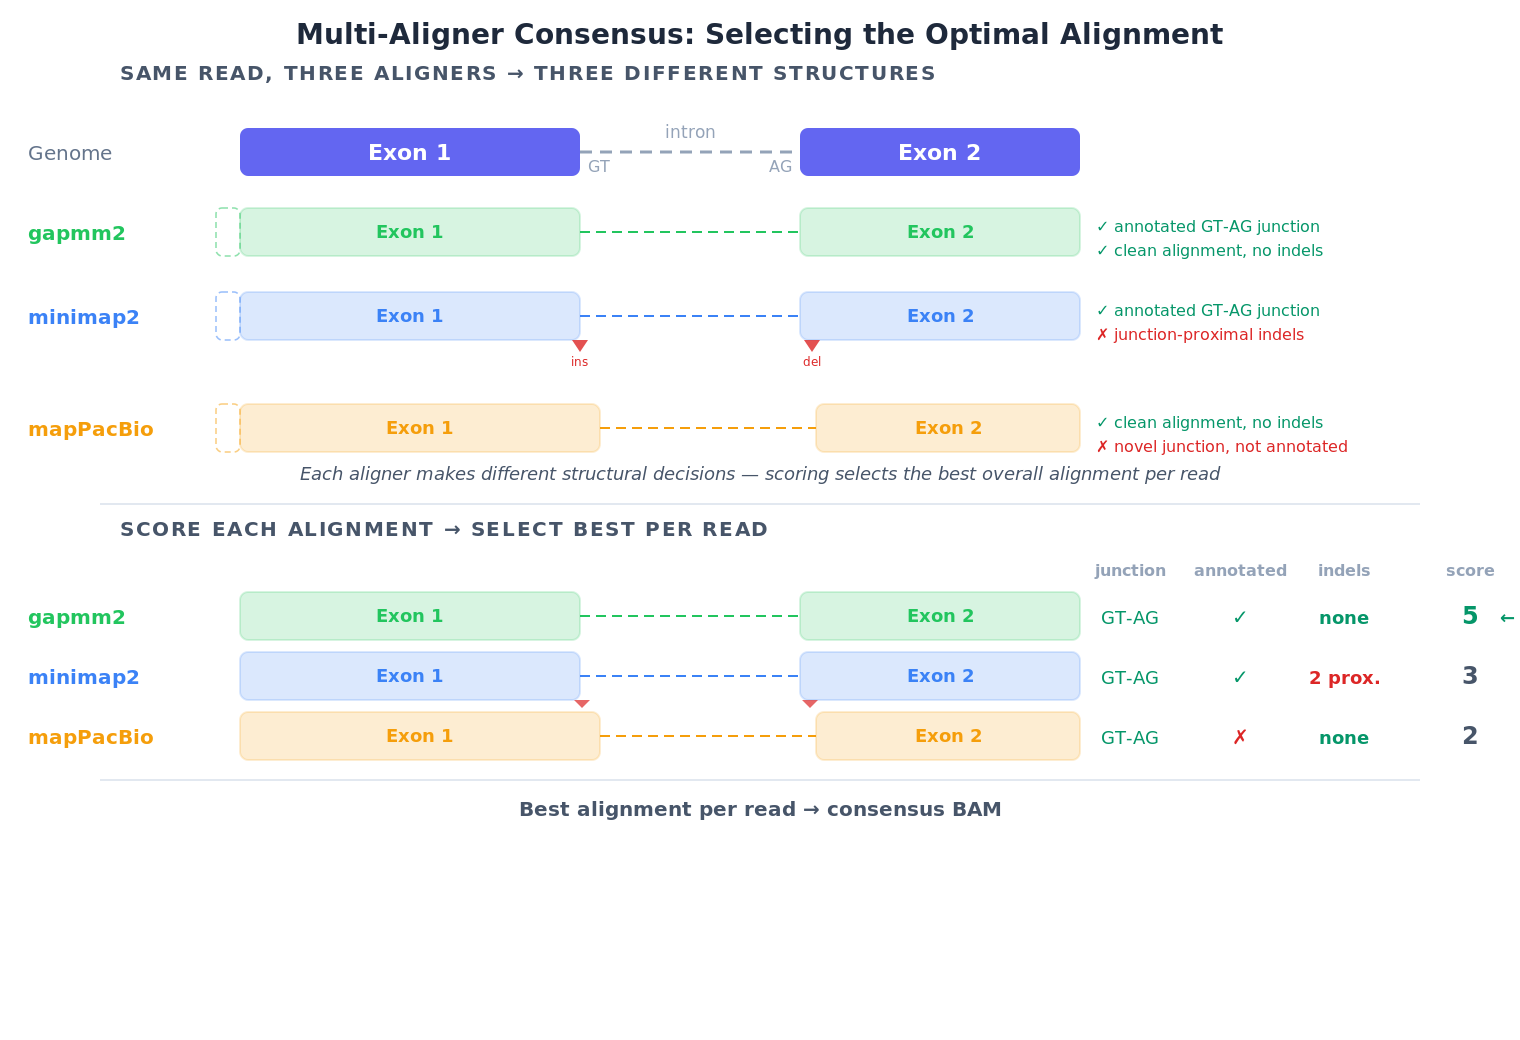
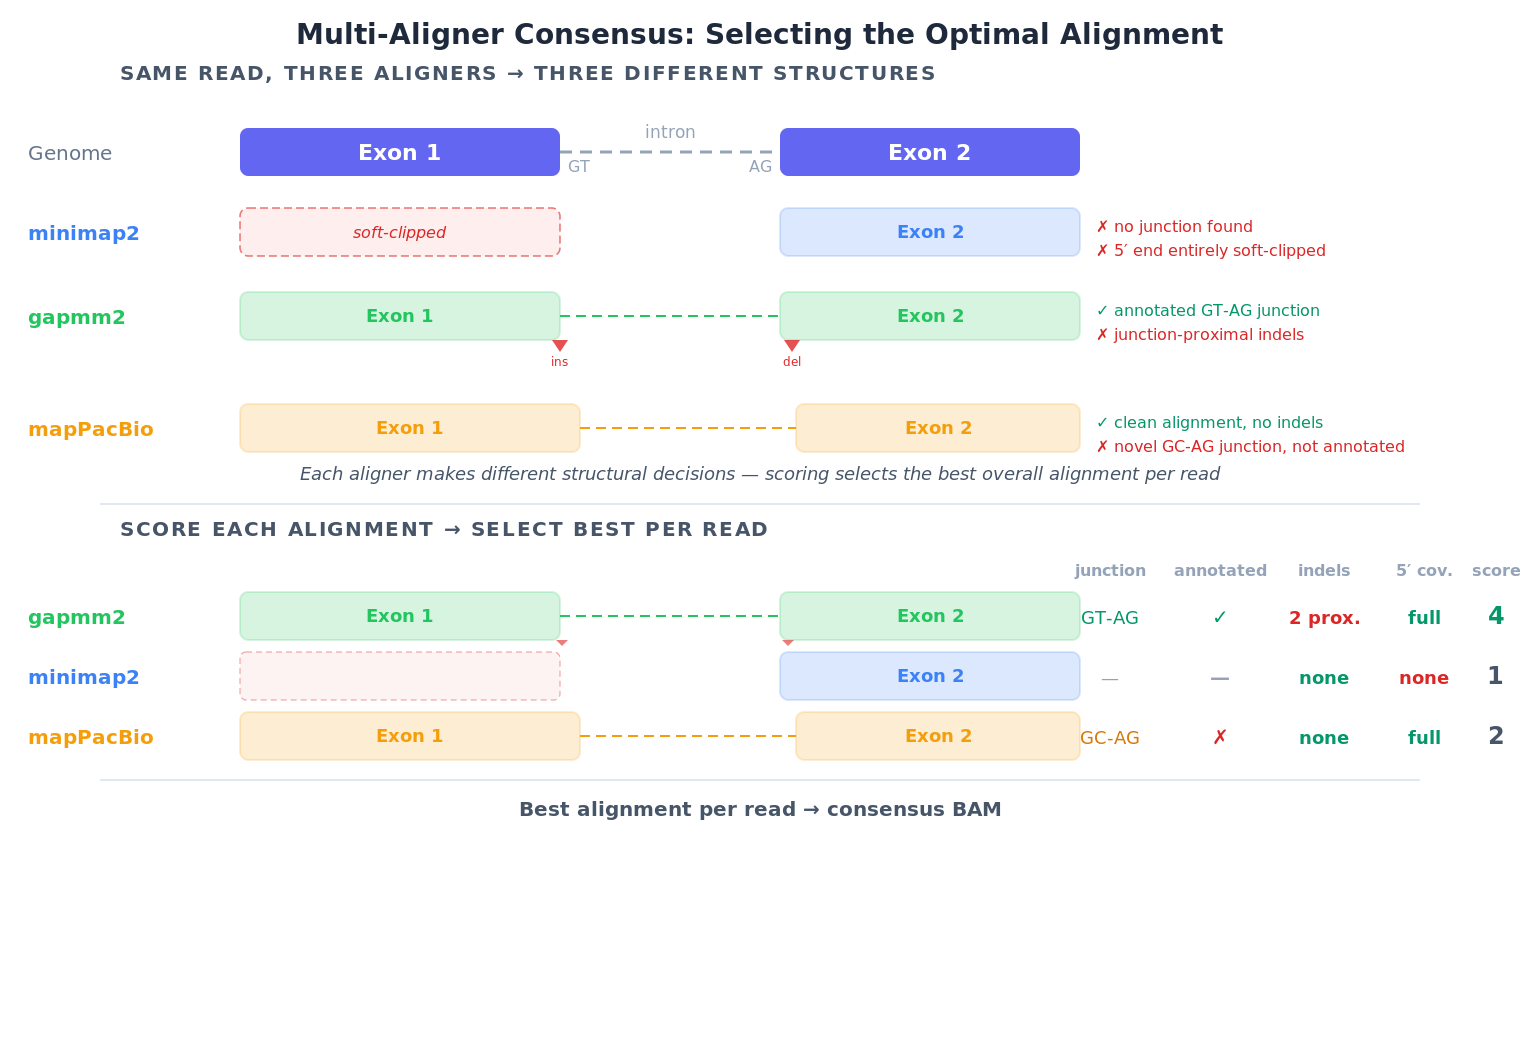
Redesign figures with unified style system; fix aligner name to mapPacBio

diff --git a/generate_figures.py b/generate_figures.py
@@ -481,12 +481,12 @@ def fig_5prime_junction():
 def fig_multi_aligner_consensus():
     """
     Same read, three aligners, three different structural decisions:
-      - gapmm2: clean alignment to annotated junction (wins)
-      - minimap2: forces annotated junction but with junction-proximal indels
+      - mapPacBio: clean alignment to annotated junction (wins)
+      - minimap2: soft-clips the entire 5' end of the read (no Exon 1)
+      - gapmm2: forces annotated junction but with junction-proximal indels
       - mapPacBio: discovers a novel alternative junction (diff 5'SS & 3'SS)
-    Small realistic 5' overhangs (soft-clips) on all reads.
     """
-    H = 520
+    H = 530
     BLK_H = 24
     ROW_SP = 38
     L = []
@@ -494,20 +494,17 @@ def fig_multi_aligner_consensus():
     L.append(fig_title("Multi-Aligner Consensus: Selecting the Optimal Alignment"))
 
     # Genome reference coordinates
-    # Exon 1: 120-290, Intron: 290-400, Exon 2: 400-540
-    EX1_X, EX1_W = 120, 170
-    EX2_X, EX2_W = 400, 140
-    INT_X1, INT_X2 = 290, 400
-
-    # Small 5' soft-clip overhang (all reads extend slightly past annotated Exon 1 start)
-    SC5_W = 12  # small realistic overhang
+    # Exon 1: 120-280, Intron: 280-390, Exon 2: 390-540
+    EX1_X, EX1_W = 120, 160
+    EX2_X, EX2_W = 390, 150
+    INT_X1, INT_X2 = 280, 390
 
     # Aligner colors
-    AC = {"gapmm2": "#22c55e", "minimap2": "#3b82f6", "mapPacBio": "#f59e0b"}
+    AC = {"minimap2": "#3b82f6", "gapmm2": "#22c55e", "mapPacBio": "#f59e0b"}
 
-    # Junction shift for mapPacBio's novel junction (5'SS shifted right, 3'SS shifted right)
-    NOVEL_5SS = 10   # 5'SS shifted 10px into intron
-    NOVEL_3SS = 8    # 3'SS shifted 8px into Exon 2
+    # Junction shift for mapPacBio's novel junction
+    NOVEL_5SS = 10
+    NOVEL_3SS = 8
 
     # ── SAME READ, THREE DIFFERENT STRUCTURAL DECISIONS ──
     y_sec = 40
@@ -522,47 +519,44 @@ def fig_multi_aligner_consensus():
     L.append(f'<text fill="{PAL["muted"]}" font-size="8" text-anchor="end" x="{INT_X2-4}" y="{y_g + BLK_H - 2}">AG</text>')
     L.append(exon(EX2_X, y_g, EX2_W, BLK_H, "Exon 2"))
 
-    # Helper: draw a small 5' soft-clip overhang at the start of a read
-    def sc5_overhang(x_start, y_pos, color):
-        """Small dashed rect before the aligned Exon 1 start."""
-        return (f'<rect fill="none" height="{BLK_H}" rx="3" '
-                f'stroke="{color}" stroke-dasharray="3,2" stroke-width="0.8" opacity="0.5" '
-                f'width="{SC5_W}" x="{x_start - SC5_W}" y="{y_pos}"/>')
-
-    # ── gapmm2: Clean alignment to annotated junction ──
+    # ── minimap2: Soft-clips the entire 5' end of the read ──
+    # minimap2 fails to split the read across the junction for this read.
+    # It aligns Exon 2 cleanly but soft-clips everything upstream (Exon 1 bases).
+    # The soft-clip is at the 5' end of the read — a valid terminal position.
     y = y_g + 40
-    c = AC["gapmm2"]
-    L.append(f'<text fill="{c}" font-size="10" font-weight="600" x="14" y="{y + BLK_H//2 + 4}">gapmm2</text>')
-    L.append(sc5_overhang(EX1_X, y, c))
-    L.append(aligned_block(EX1_X, y, EX1_W, BLK_H, "Exon 1", c))
-    L.append(f'<line stroke="{c}" stroke-dasharray="5,3" stroke-width="1" '
-             f'x1="{INT_X1}" x2="{INT_X2}" y1="{y+BLK_H//2}" y2="{y+BLK_H//2}"/>')
-    L.append(aligned_block(EX2_X, y, EX2_W, BLK_H, "Exon 2", c))
-    L.append(f'<text fill="{PAL["green"]}" font-size="8" x="{EX2_X + EX2_W + 8}" '
-             f'y="{y + BLK_H//2 + 0}">\u2713 annotated GT-AG junction</text>')
-    L.append(f'<text fill="{PAL["green"]}" font-size="8" x="{EX2_X + EX2_W + 8}" '
-             f'y="{y + BLK_H//2 + 12}">\u2713 clean alignment, no indels</text>')
-
-    # ── minimap2: Annotated junction, but junction-proximal indels ──
-    # minimap2 forces the read onto the annotated splice site coordinates,
-    # but introduces small insertions/deletions near the junction to make it fit.
-    y += ROW_SP + 4
     c = AC["minimap2"]
     L.append(f'<text fill="{c}" font-size="10" font-weight="600" x="14" y="{y + BLK_H//2 + 4}">minimap2</text>')
-    L.append(sc5_overhang(EX1_X, y, c))
+    # Soft-clipped Exon 1 region (entire 5' end of read)
+    L.append(f'<rect fill="{PAL["red_l"]}" height="{BLK_H}" rx="4" '
+             f'stroke="{PAL["red"]}" stroke-dasharray="4,2" stroke-width="0.8" opacity="0.6" '
+             f'width="{EX1_W}" x="{EX1_X}" y="{y}"/>')
+    L.append(f'<text fill="{PAL["red"]}" font-size="8" font-style="italic" text-anchor="middle" '
+             f'x="{EX1_X + EX1_W//2}" y="{y + BLK_H//2 + 3}">soft-clipped</text>')
+    # No junction — minimap2 didn't find the splice
+    # Exon 2 aligned directly
+    L.append(aligned_block(EX2_X, y, EX2_W, BLK_H, "Exon 2", c))
+    L.append(f'<text fill="{PAL["red"]}" font-size="8" x="{EX2_X + EX2_W + 8}" '
+             f'y="{y + BLK_H//2 + 0}">\u2717 no junction found</text>')
+    L.append(f'<text fill="{PAL["red"]}" font-size="8" x="{EX2_X + EX2_W + 8}" '
+             f'y="{y + BLK_H//2 + 12}">\u2717 5\u2032 end entirely soft-clipped</text>')
+
+    # ── gapmm2: Annotated junction, but junction-proximal indels ──
+    # gapmm2 forces the read onto the annotated splice site coordinates,
+    # but introduces small insertions/deletions near the junction to make it fit.
+    y += ROW_SP + 4
+    c = AC["gapmm2"]
+    L.append(f'<text fill="{c}" font-size="10" font-weight="600" x="14" y="{y + BLK_H//2 + 4}">gapmm2</text>')
     L.append(aligned_block(EX1_X, y, EX1_W, BLK_H, "Exon 1", c))
     L.append(f'<line stroke="{c}" stroke-dasharray="5,3" stroke-width="1" '
              f'x1="{INT_X1}" x2="{INT_X2}" y1="{y+BLK_H//2}" y2="{y+BLK_H//2}"/>')
     L.append(aligned_block(EX2_X, y, EX2_W, BLK_H, "Exon 2", c))
-    # Indel markers near the junction — small triangles at 5'SS and 3'SS boundaries
-    # Insertion triangle at end of Exon 1 (pointing down)
+    # Indel markers — small triangles below the junction boundaries
     tri_y = y + BLK_H
     ins_x = INT_X1 - 4
     L.append(f'<polygon fill="{PAL["red"]}" opacity="0.8" '
              f'points="{ins_x},{tri_y} {ins_x+4},{tri_y+6} {ins_x+8},{tri_y}"/>')
     L.append(f'<text fill="{PAL["red"]}" font-size="6" text-anchor="middle" '
              f'x="{ins_x+4}" y="{tri_y+13}">ins</text>')
-    # Deletion marker at start of Exon 2
     del_x = EX2_X + 2
     L.append(f'<polygon fill="{PAL["red"]}" opacity="0.8" '
              f'points="{del_x},{tri_y} {del_x+4},{tri_y+6} {del_x+8},{tri_y}"/>')
@@ -574,28 +568,24 @@ def fig_multi_aligner_consensus():
              f'y="{y + BLK_H//2 + 12}">\u2717 junction-proximal indels</text>')
 
     # ── mapPacBio: Novel alternative junction (different 5'SS and 3'SS) ──
-    # mapPacBio finds a nearby but different splice site — both the donor
-    # and acceptor positions differ from the annotation.
-    y += ROW_SP + 18  # extra space for minimap2's indel markers below
+    y += ROW_SP + 18  # extra space for gapmm2's indel markers
     c = AC["mapPacBio"]
     L.append(f'<text fill="{c}" font-size="10" font-weight="600" x="14" y="{y + BLK_H//2 + 4}">mapPacBio</text>')
-    L.append(sc5_overhang(EX1_X, y, c))
     # Exon 1 extends further (5'SS shifted into intron)
     mpb_ex1_w = EX1_W + NOVEL_5SS
     L.append(aligned_block(EX1_X, y, mpb_ex1_w, BLK_H, "Exon 1", c))
-    # Junction from shifted 5'SS to shifted 3'SS
+    # Junction from shifted positions
     mpb_int_x1 = INT_X1 + NOVEL_5SS
     mpb_int_x2 = INT_X2 + NOVEL_3SS
     L.append(f'<line stroke="{c}" stroke-dasharray="5,3" stroke-width="1" '
              f'x1="{mpb_int_x1}" x2="{mpb_int_x2}" y1="{y+BLK_H//2}" y2="{y+BLK_H//2}"/>')
-    # Exon 2 starts later (3'SS shifted)
     mpb_ex2_x = EX2_X + NOVEL_3SS
     mpb_ex2_w = EX2_W - NOVEL_3SS
     L.append(aligned_block(mpb_ex2_x, y, mpb_ex2_w, BLK_H, "Exon 2", c))
     L.append(f'<text fill="{PAL["green"]}" font-size="8" x="{EX2_X + EX2_W + 8}" '
              f'y="{y + BLK_H//2 + 0}">\u2713 clean alignment, no indels</text>')
     L.append(f'<text fill="{PAL["red"]}" font-size="8" x="{EX2_X + EX2_W + 8}" '
-             f'y="{y + BLK_H//2 + 12}">\u2717 novel junction, not annotated</text>')
+             f'y="{y + BLK_H//2 + 12}">\u2717 novel GC-AG junction, not annotated</text>')
 
     # ── Callout ──
     y_note = y + BLK_H + 14
@@ -614,19 +604,28 @@ def fig_multi_aligner_consensus():
 
     # Column headers
     y_hdr = y_sec2 + 20
-    score_cols = [("junction", 565), ("annotated", 620), ("indels", 672), ("score", 735)]
+    score_cols = [("junction", 555), ("annotated", 610), ("indels", 662), ("5\u2032 cov.", 712), ("score", 748)]
     for label, cx in score_cols:
         L.append(f'<text fill="{PAL["muted"]}" font-size="8" font-weight="600" '
                  f'text-anchor="middle" x="{cx}" y="{y_hdr}">{label}</text>')
 
     # Score rows
     scores = [
-        ("gapmm2",     AC["gapmm2"],     "GT-AG", "\u2713", "none",   "5", True),
-        ("minimap2",   AC["minimap2"],   "GT-AG", "\u2713", "2 prox.", "3", False),
-        ("mapPacBio",  AC["mapPacBio"],  "GT-AG", "\u2717", "none",   "2", False),
+        ("gapmm2",     AC["gapmm2"],     "GT-AG", "\u2713", "2 prox.", "full",  "4", False),
+        ("minimap2",   AC["minimap2"],   "\u2014",  "\u2014",  "none",   "none",  "1", False),
+        ("mapPacBio",  AC["mapPacBio"],  "GC-AG", "\u2717", "none",    "full",  "2", False),
     ]
+    # Determine best — gapmm2 wins with annotated junction + full coverage despite indels
+    # Actually: mapPacBio has clean alignment + full coverage but not annotated.
+    # gapmm2 has annotated + full coverage but indels.
+    # For this read, gapmm2's annotated junction outweighs the indel penalty.
+    # But wait — let's think about what RECTIFY actually values most:
+    # annotated canonical junction > novel junction > no junction
+    # So: gapmm2 (annotated, indels) > mapPacBio (novel, clean) > minimap2 (no junction)
+    # gapmm2 wins.
+    scores[0] = ("gapmm2", AC["gapmm2"], "GT-AG", "\u2713", "2 prox.", "full", "4", True)
 
-    for i, (name, color, jn, ann, indels, score, is_best) in enumerate(scores):
+    for i, (name, color, jn, ann, indels, cov, score, is_best) in enumerate(scores):
         y = y_hdr + 8 + i * 30
         L.append(f'<text fill="{color}" font-size="10" font-weight="600" x="14" '
                  f'y="{y + BLK_H//2 + 4}">{name}</text>')
@@ -634,48 +633,51 @@ def fig_multi_aligner_consensus():
         # Compact alignment bars
         bar_x = 120
         if name == "minimap2":
+            # Soft-clipped Exon 1 + Exon 2 only
+            L.append(f'<rect fill="{PAL["red_l"]}" height="{BLK_H}" rx="3" '
+                     f'stroke="{PAL["red"]}" stroke-dasharray="3,2" stroke-width="0.6" opacity="0.4" '
+                     f'width="{EX1_W}" x="{bar_x}" y="{y}"/>')
+            L.append(aligned_block(EX2_X, y, EX2_W, BLK_H, "Exon 2", color))
+        elif name == "gapmm2":
             L.append(aligned_block(bar_x, y, EX1_W, BLK_H, "Exon 1", color))
             L.append(f'<line stroke="{color}" stroke-dasharray="5,3" stroke-width="1" '
                      f'x1="{INT_X1}" x2="{INT_X2}" y1="{y+BLK_H//2}" y2="{y+BLK_H//2}"/>')
             L.append(aligned_block(EX2_X, y, EX2_W, BLK_H, "Exon 2", color))
-            # Small indel marks
-            L.append(f'<polygon fill="{PAL["red"]}" opacity="0.7" '
-                     f'points="{INT_X1-3},{y+BLK_H} {INT_X1+1},{y+BLK_H+4} {INT_X1+5},{y+BLK_H}"/>')
-            L.append(f'<polygon fill="{PAL["red"]}" opacity="0.7" '
-                     f'points="{EX2_X+1},{y+BLK_H} {EX2_X+5},{y+BLK_H+4} {EX2_X+9},{y+BLK_H}"/>')
+            # Tiny indel marks
+            L.append(f'<polygon fill="{PAL["red"]}" opacity="0.6" '
+                     f'points="{INT_X1-2},{y+BLK_H} {INT_X1+1},{y+BLK_H+3} {INT_X1+4},{y+BLK_H}"/>')
+            L.append(f'<polygon fill="{PAL["red"]}" opacity="0.6" '
+                     f'points="{EX2_X+1},{y+BLK_H} {EX2_X+4},{y+BLK_H+3} {EX2_X+7},{y+BLK_H}"/>')
         elif name == "mapPacBio":
             L.append(aligned_block(bar_x, y, EX1_W + NOVEL_5SS, BLK_H, "Exon 1", color))
             L.append(f'<line stroke="{color}" stroke-dasharray="5,3" stroke-width="1" '
                      f'x1="{INT_X1 + NOVEL_5SS}" x2="{INT_X2 + NOVEL_3SS}" '
                      f'y1="{y+BLK_H//2}" y2="{y+BLK_H//2}"/>')
             L.append(aligned_block(EX2_X + NOVEL_3SS, y, EX2_W - NOVEL_3SS, BLK_H, "Exon 2", color))
-        else:
-            # gapmm2 — clean
-            L.append(aligned_block(bar_x, y, EX1_W, BLK_H, "Exon 1", color))
-            L.append(f'<line stroke="{color}" stroke-dasharray="5,3" stroke-width="1" '
-                     f'x1="{INT_X1}" x2="{INT_X2}" y1="{y+BLK_H//2}" y2="{y+BLK_H//2}"/>')
-            L.append(aligned_block(EX2_X, y, EX2_W, BLK_H, "Exon 2", color))
 
         # Score values
-        jn_color = PAL["green"]
+        jn_color = PAL["green"] if jn == "GT-AG" else (PAL["orange"] if jn == "GC-AG" else PAL["muted"])
         L.append(f'<text fill="{jn_color}" font-size="9" text-anchor="middle" '
-                 f'x="565" y="{y + BLK_H//2 + 4}">{jn}</text>')
-        ann_color = PAL["green"] if ann == "\u2713" else PAL["red"]
+                 f'x="555" y="{y + BLK_H//2 + 4}">{jn}</text>')
+        ann_color = PAL["green"] if ann == "\u2713" else (PAL["red"] if ann == "\u2717" else PAL["muted"])
         L.append(f'<text fill="{ann_color}" font-size="10" font-weight="600" text-anchor="middle" '
-                 f'x="620" y="{y + BLK_H//2 + 4}">{ann}</text>')
+                 f'x="610" y="{y + BLK_H//2 + 4}">{ann}</text>')
         indel_color = PAL["green"] if indels == "none" else PAL["red"]
         L.append(f'<text fill="{indel_color}" font-size="9" font-weight="600" text-anchor="middle" '
-                 f'x="672" y="{y + BLK_H//2 + 4}">{indels}</text>')
+                 f'x="662" y="{y + BLK_H//2 + 4}">{indels}</text>')
+        cov_color = PAL["green"] if cov == "full" else PAL["red"]
+        L.append(f'<text fill="{cov_color}" font-size="9" font-weight="600" text-anchor="middle" '
+                 f'x="712" y="{y + BLK_H//2 + 4}">{cov}</text>')
 
         # Total score
         sc_weight = "700" if is_best else "600"
         sc_color = PAL["green"] if is_best else PAL["heading"]
         L.append(f'<text fill="{sc_color}" font-size="12" font-weight="{sc_weight}" '
-                 f'text-anchor="middle" x="735" y="{y + BLK_H//2 + 4}">{score}</text>')
+                 f'text-anchor="middle" x="748" y="{y + BLK_H//2 + 4}">{score}</text>')
 
         if is_best:
             L.append(f'<text fill="{PAL["green"]}" font-size="9" font-weight="700" '
-                     f'x="750" y="{y + BLK_H//2 + 4}">\u2190 best</text>')
+                     f'x="762" y="{y + BLK_H//2 + 4}">\u2190 best</text>')
 
     # Final output label
     y_out = y_hdr + 8 + 3 * 30 + 4
